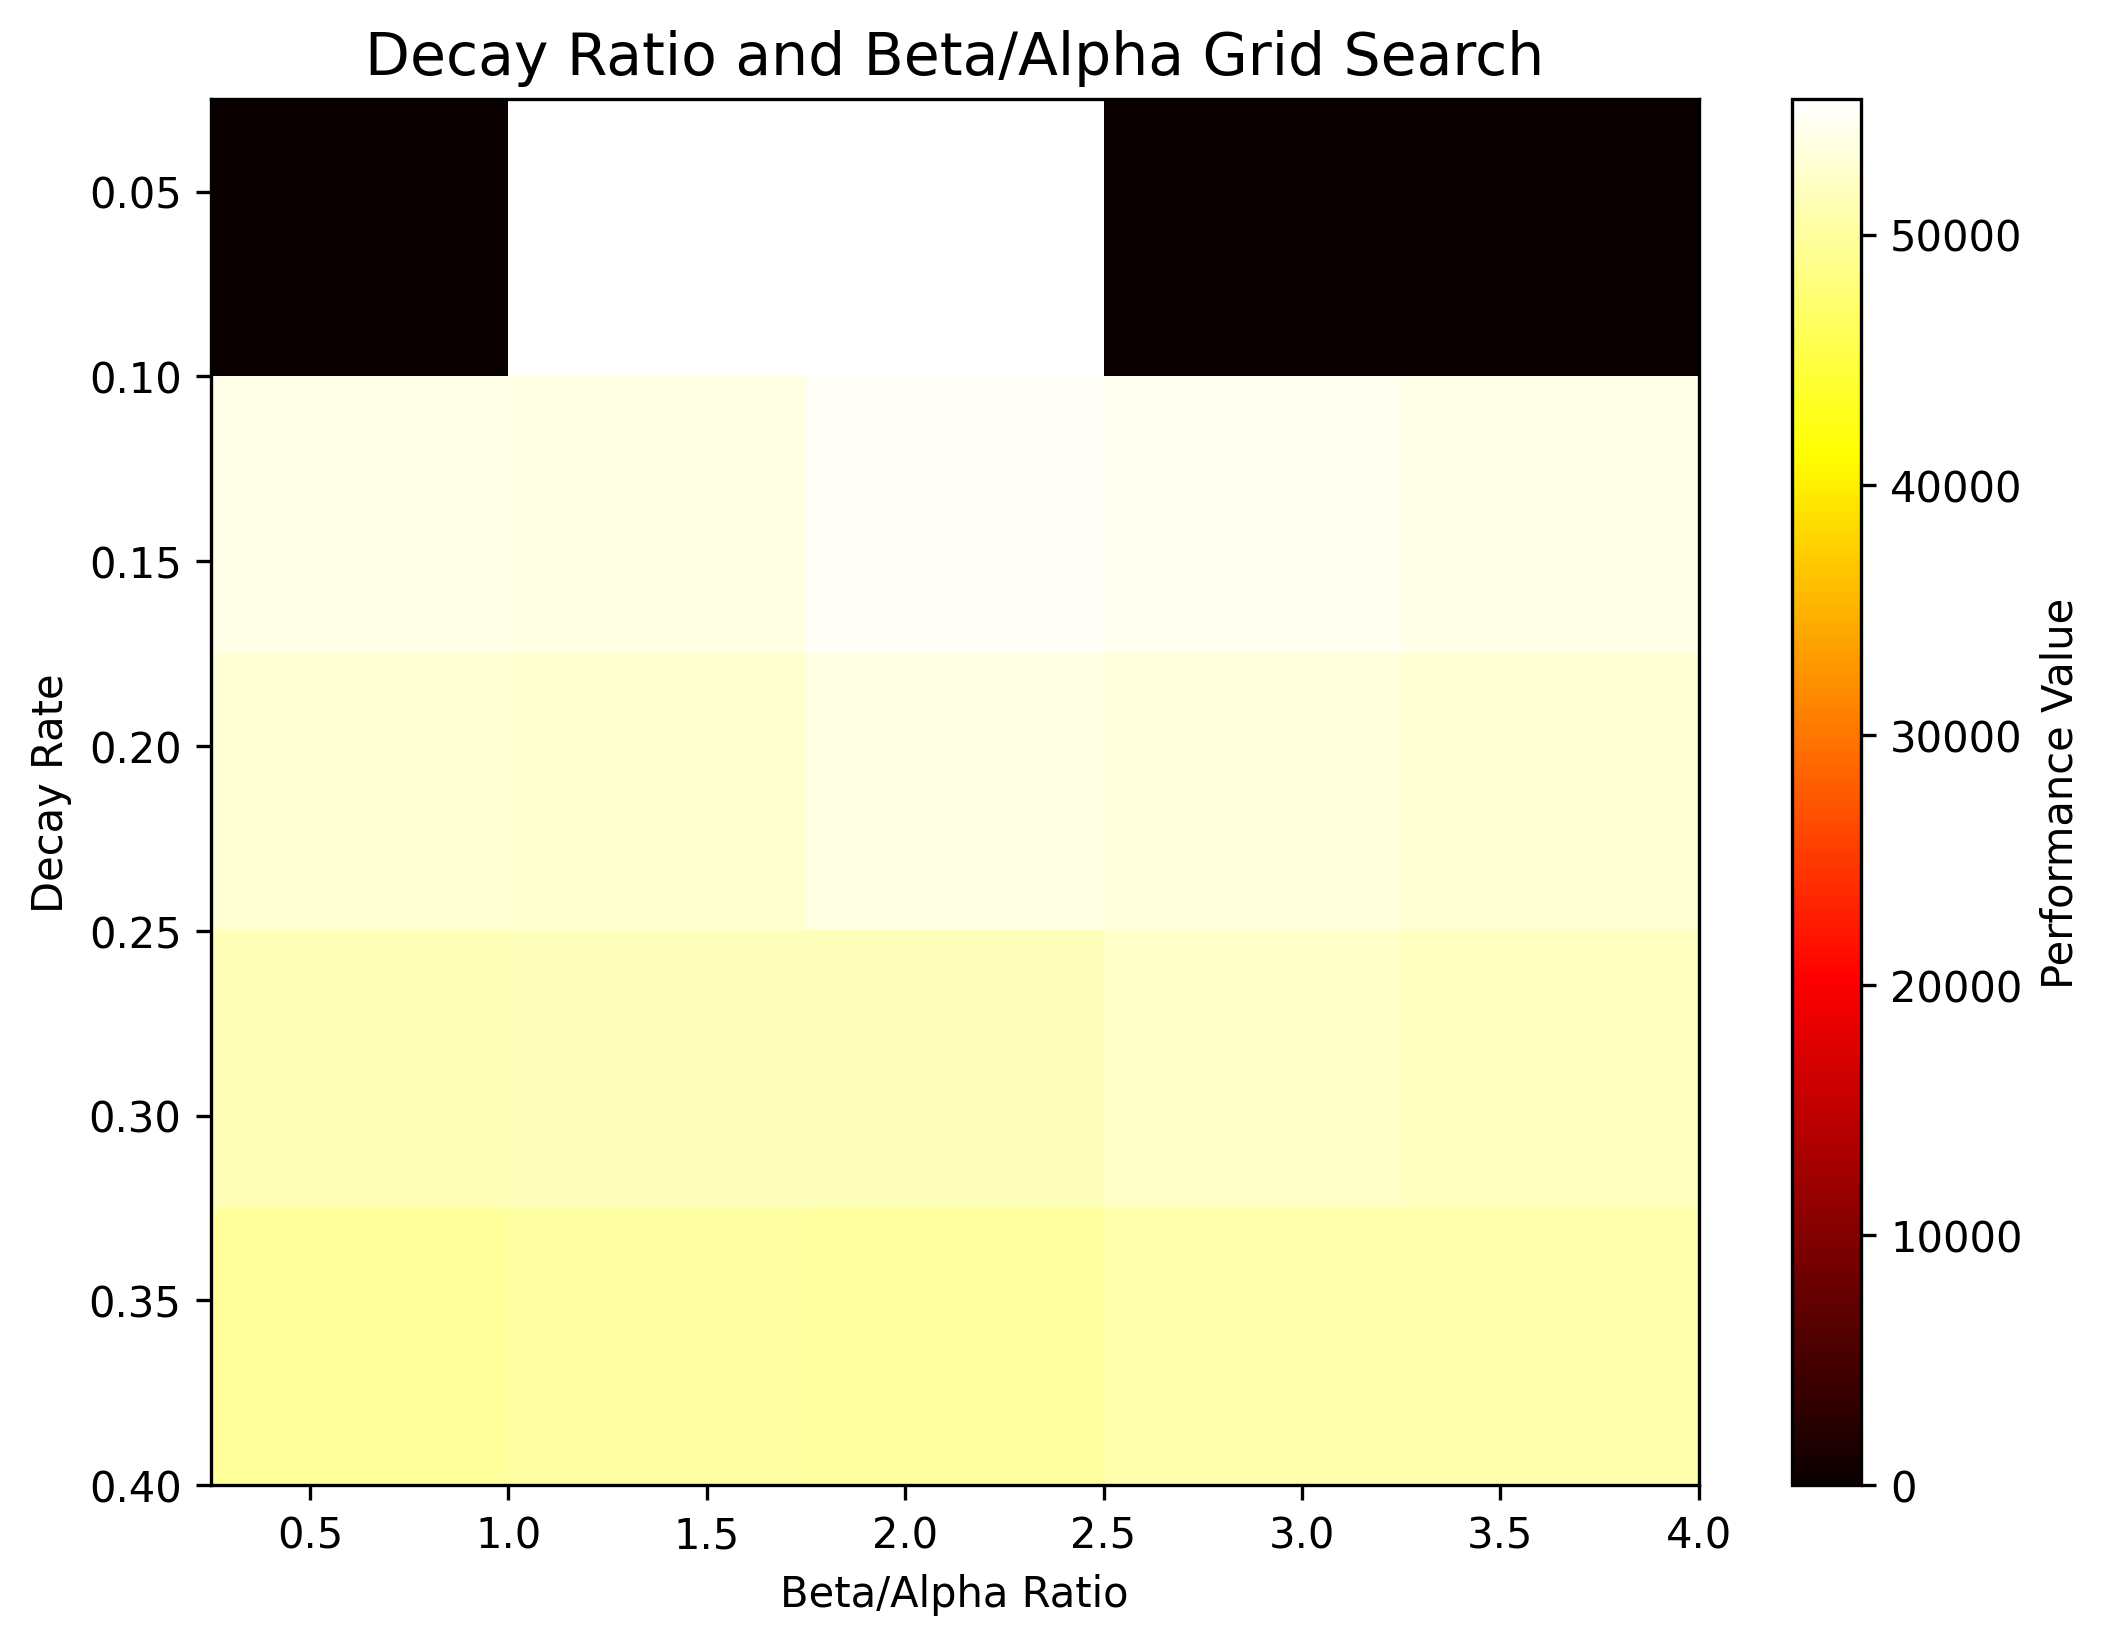
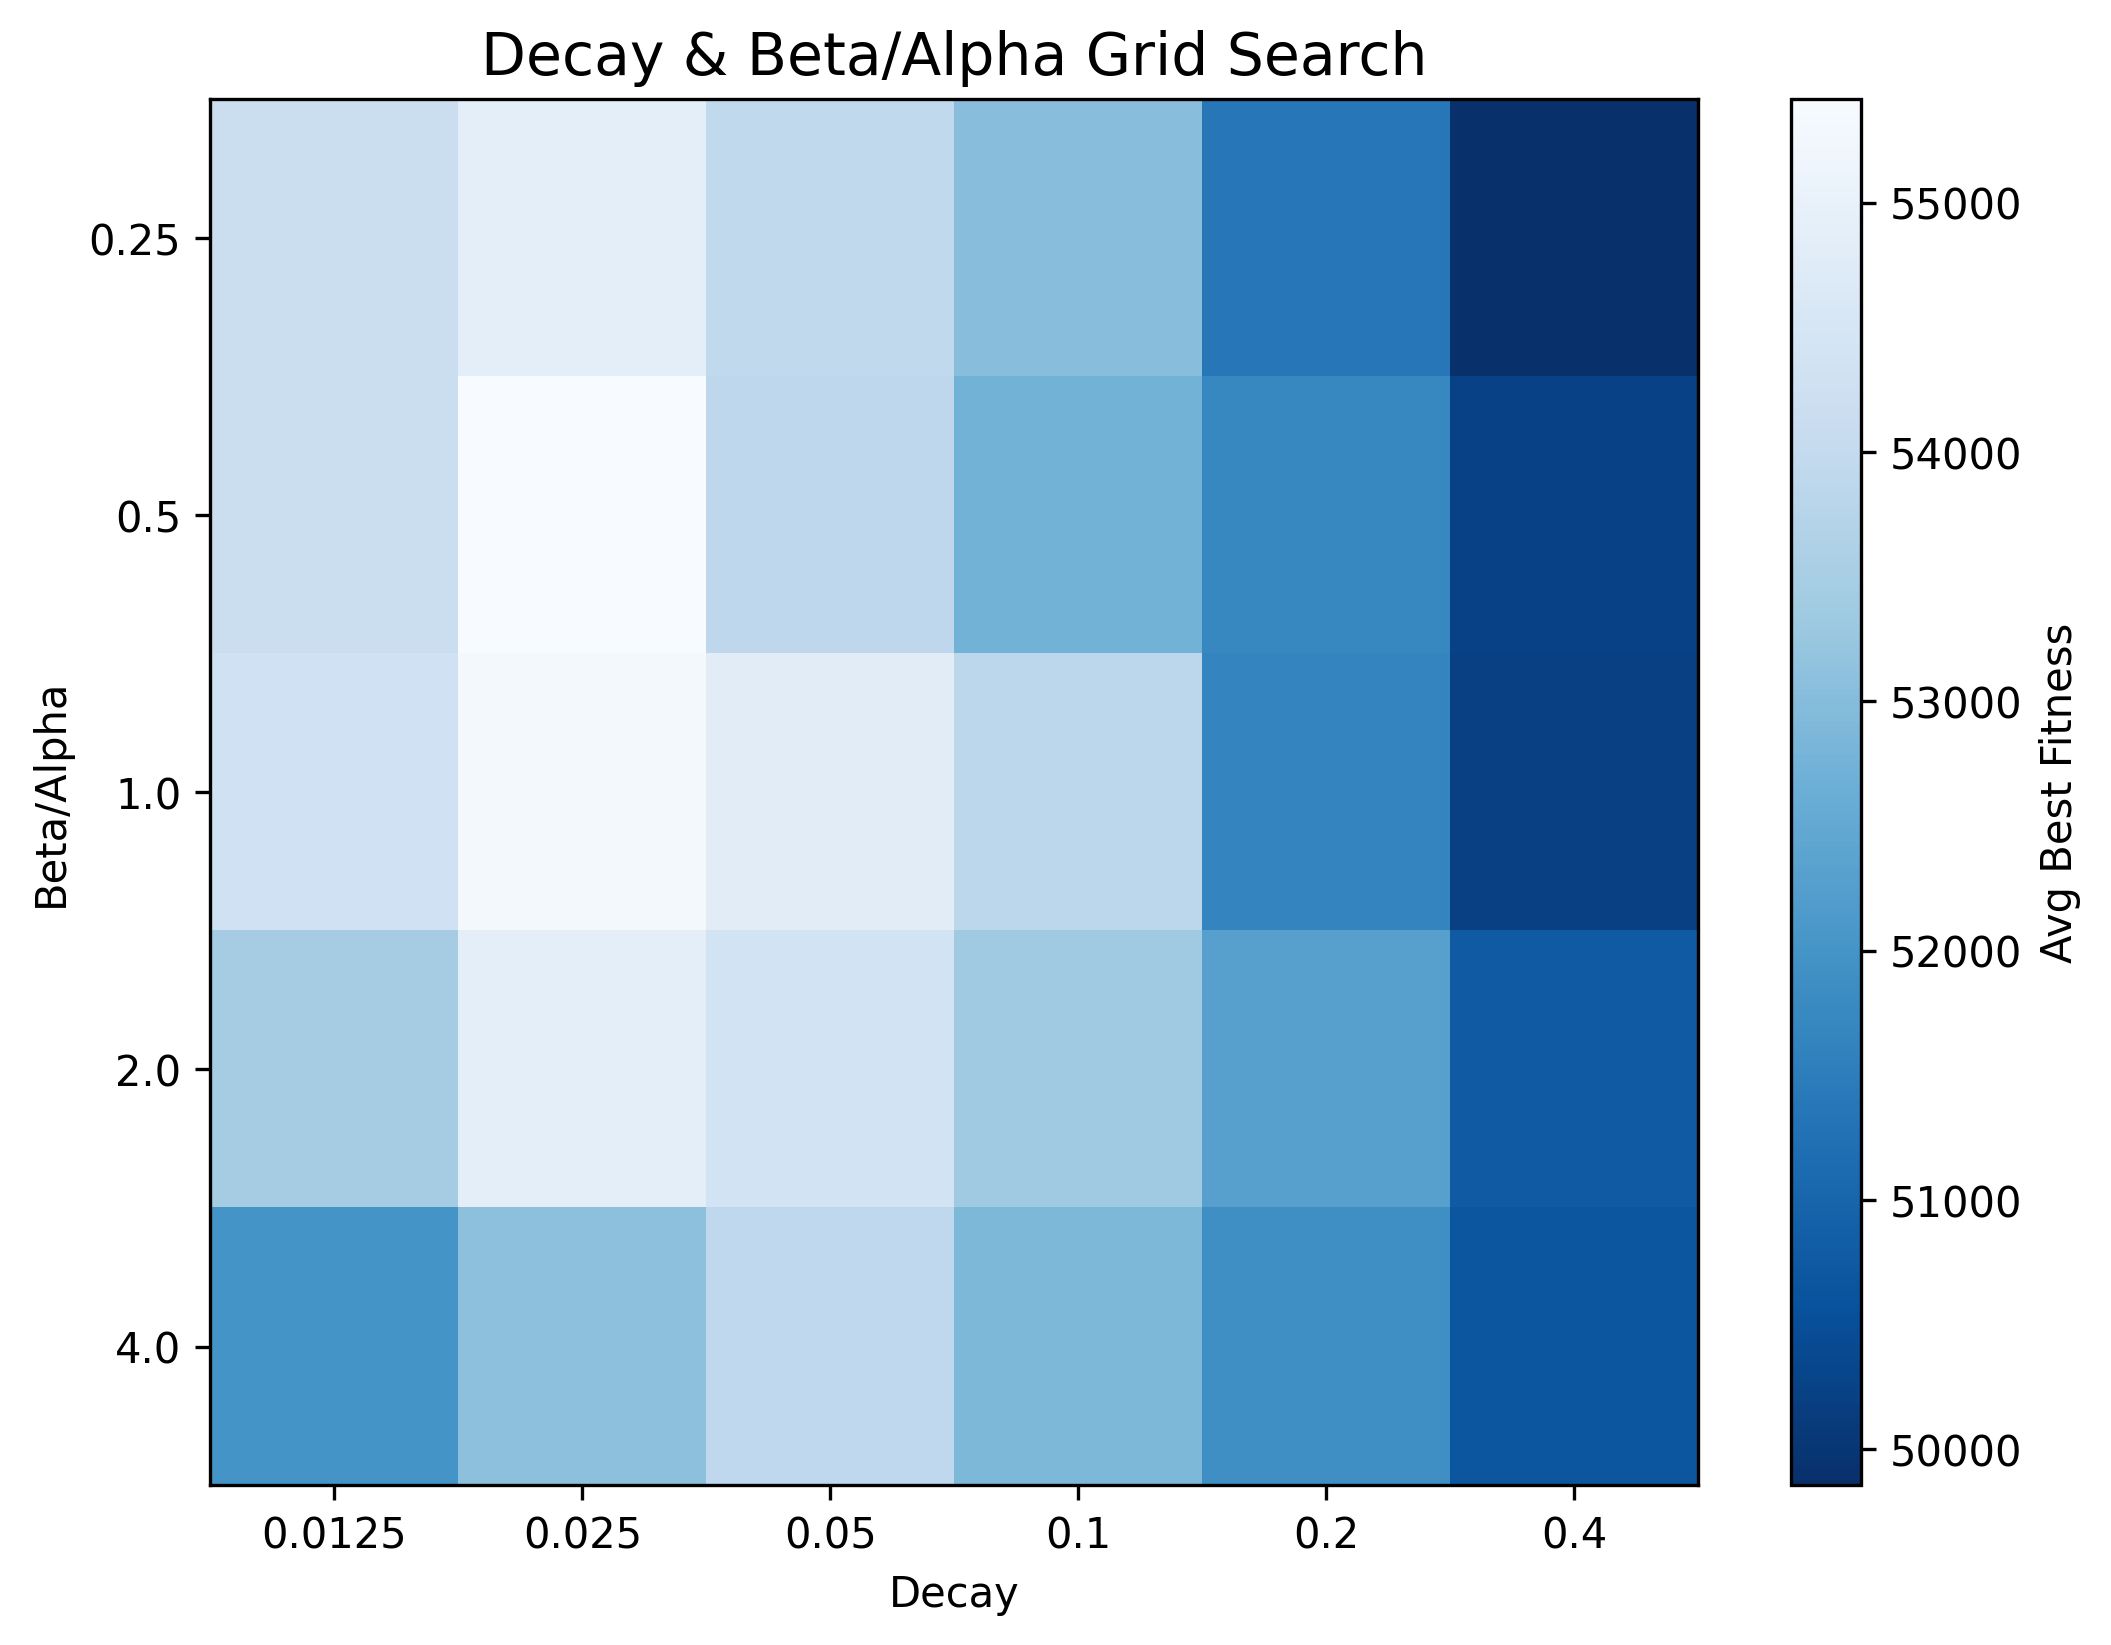
aco plots update

diff --git a/aco_plots/plot_decay_ratio.py b/aco_plots/plot_decay_ratio.py
@@ -7,36 +7,35 @@ def get_decay_ratio_search_res(dir_path):
 
     res = []
     for filename in os.listdir(dir_path):
-        if 'decay_beta' in filename and filename.endswith('.json'):  # 假设是JSON文件
+        if 'decay_beta' in filename and filename.endswith('.json'):
             with open(os.path.join(dir_path, filename), 'r') as f:
                 res.append(json.load(f))
     return res
 
-def plot_heatmap(decay_grid, ratio_grid, values, save_path):
-    # 创建图形
+def plot_heatmap(decay_grid, ratio_grid, values: np.ndarray, save_path):
+
     plt.figure(figsize=(8, 6))
     
-    # 创建热力图
-    plt.imshow(
-        values, cmap='hot', interpolation='nearest', 
-        extent=[min(ratio_grid), max(ratio_grid), max(decay_grid), min(decay_grid)],
-        aspect='auto'
+    img = plt.imshow(values.T, cmap='Blues_r', aspect='auto', interpolation='nearest')
+    
+    plt.xticks(
+        ticks=np.linspace(0, len(decay_grid)-1, len(decay_grid)),
+        labels=decay_grid
+    )
+    plt.yticks(
+        ticks=np.linspace(0, len(ratio_grid)-1, len(ratio_grid)),
+        labels=ratio_grid
     )
     
-    # 添加颜色条
-    plt.colorbar(label='Performance Value')
+    plt.colorbar(img, label='Avg Best Fitness')
+    plt.xlabel('Decay')
+    plt.ylabel('Beta/Alpha')
+    plt.title("Decay & Beta/Alpha Grid Search", fontsize=14)
     
-    # 设置坐标轴
-    plt.xlabel('Beta/Alpha Ratio')
-    plt.ylabel('Decay Rate')
-    plt.title("Decay Ratio and Beta/Alpha Grid Search", fontsize=14)
-    
-    # 确保保存目录存在
     os.makedirs(save_path, exist_ok=True)
-    
-    # 保存图像
     plt.savefig(f'{save_path}/decay_ratio_search_heatmap.png', dpi=300, bbox_inches='tight')
     plt.close()
+
 
 if __name__ == '__main__':
 

diff --git a/solvers/ACO.py b/solvers/ACO.py
@@ -3,6 +3,9 @@ import copy
 from tqdm import tqdm
 from .solver import *
 
+PHEROMONE_UPDATE_ALTERED = False
+LOCAL_BEST_UPDATE = True
+
 class Ant():
 
     def __init__(
@@ -153,13 +156,24 @@ class AntColonyOptimizer(BaseSolver):
             # 信息素挥发  
             pheromone *= (1 - self.decay)
 
-            # 信息素增加  
+            # 信息素增加
             if best_ant.fitness > 0:
-                edges = set(best_ant.get_visited_edges() + local_best_ant.get_visited_edges())
-                for edge in edges:
-                    pheromone[edge[0], edge[1]] += 1.0
+                if LOCAL_BEST_UPDATE:
+                    edges = set(best_ant.get_visited_edges() + local_best_ant.get_visited_edges())
+                else:
+                    edges = set(best_ant.get_visited_edges())
+                
+                if PHEROMONE_UPDATE_ALTERED:
+                    for edge in edges:
+                        pheromone[edge[0], edge[1]] += 0.9
+                    for item in list(set(best_ant.items_visited + local_best_ant.items_visited)):
+                        if item != 0:
+                            pheromone[:, item] += 0.1
+                else:
+                    for edge in edges:
+                        pheromone[edge[0], edge[1]] += 1.0
+
             pheromones.append(pheromone.copy())
-            
             if self.n_early_stop is not None and \
                 iter - best_solution_iter >= self.n_early_stop:
                 pbar.close()

diff --git a/aco_plots/plot_pheromone.py b/aco_plots/plot_pheromone.py
@@ -11,7 +11,6 @@ from solvers import *
 from utils import *
 from mkp_instance import *
 
-
 def plot_pheromones(pheromones: np.ndarray, save_path):
 
     time_steps = pheromones.shape[0]
@@ -51,7 +50,7 @@ def plot_pheromones(pheromones: np.ndarray, save_path):
 aco_params = {
     'max_iter': 1000,
     'num_ants': 10,
-    'decay': 0.1,
+    'decay': 0.025,
     'alpha': 1.0,
     'beta': 1.0,
     'n_early_stop': 200

diff --git a/aco_plots/run_aco_grid_search_n_ant.py b/aco_plots/run_aco_grid_search_n_ant.py
@@ -40,6 +40,7 @@ if __name__ == '__main__':
 
     n_episode = 10
     num_ant_grid = [1, 5, 10, 20, 50]
+    num_ant_grid = [3, 15, 50]
     for num_ant in num_ant_grid:
         offset_params = aco_params.copy()
         offset_params['num_ants'] = num_ant

diff --git a/solvers/__init__.py b/solvers/__init__.py
@@ -21,7 +21,3 @@ from .PSO import (
 from .ACO import (
     AntColonyOptimizer
 )
-
-from .ACO_Altered import (
-    AntColonyOptimizer_Altered
-)
